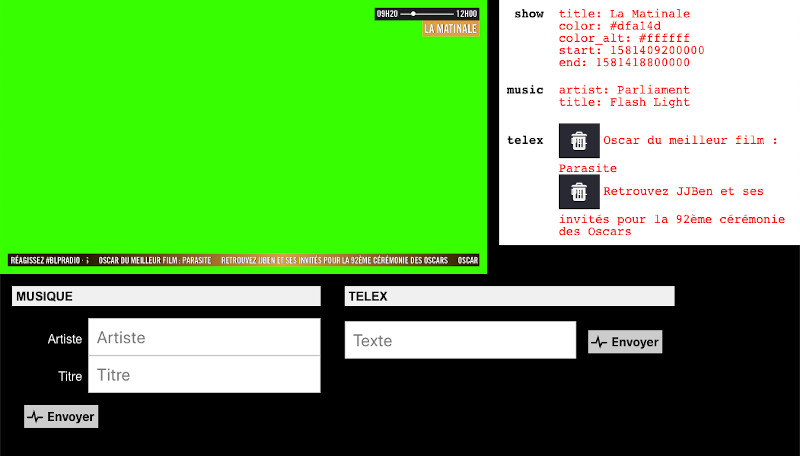
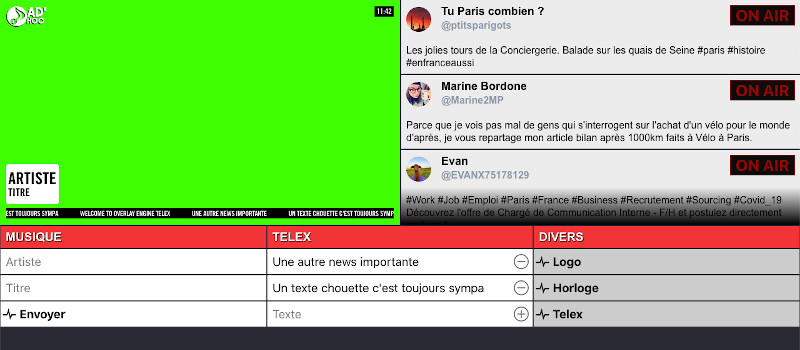
suite doc

diff --git a/app/watch-fb-comments.js b/app/watch-fb-comments.js
@@ -6,6 +6,9 @@
  * Todo créer une app FB sur https://developers.facebook.com/
  * et récupérer l'identifiant d'app + la clé secrète dans "Paramètres" / "Général"
  * L'app doit être "en ligne" (pas "en développement")
+ *
+ * Usage:
+ * npm start watch-fb-comments videoId
  */
 
 'use strict';
@@ -20,7 +23,6 @@ const settings = require('./lib/settings')
   , log = require('./lib/log');
 
 const AVATAR_PATH = __dirname + '/../public/img/avatars';
-const AVATAR_URL = `//${settings.server.HOST}:${settings.server.PORT}/img/avatars`;
 
 const socket = io(`ws://${settings.server.HOST}:${settings.server.PORT}`);
 
@@ -62,7 +64,6 @@ function startWatching(videoId, accessToken) {
   };
   es.onmessage = (event) => {
     let data = JSON.parse(event.data);
-    log(data);
     if (!data.message) {
       return;
     }
@@ -79,7 +80,7 @@ function startWatching(videoId, accessToken) {
     let AVATAR_FILE = `fb-${data.from.id}.jpg`;
     if (fs.existsSync(`${AVATAR_PATH}/${AVATAR_FILE}`)) {
       // avatar déjà en cache
-      social.avatar = `${AVATAR_URL}/${AVATAR_FILE}`;
+      social.avatar = `/img/avatars/${AVATAR_FILE}`;
       log('avatar deja en cache');
       pushSocial(social);
     } else {
@@ -90,7 +91,7 @@ function startWatching(videoId, accessToken) {
           fs.writeFileSync(`${AVATAR_PATH}/${AVATAR_FILE}`, body, 'binary');
           // mise en cache de l'avatar
           log('avatar récupéré ');
-          social.avatar = `${AVATAR_URL}/${AVATAR_FILE}`;
+          social.avatar = `/img/avatars/${AVATAR_FILE}`;
         }
         pushSocial(social);
       });
@@ -101,8 +102,7 @@ function startWatching(videoId, accessToken) {
 
 function pushSocial(social) {
   social.key = sha1(JSON.stringify(social));
-  log(social);
-  log('-');
   socket.emit('FBL_COM', social);
-  log('FBL_COM emitted');
+  log('FBL_COM emitted:');
+  log(social);
 }

diff --git a/app/watch-fb-reactions.js b/app/watch-fb-reactions.js
@@ -6,6 +6,9 @@
  * Todo créer une app FB sur https://developers.facebook.com/
  * et récupérer l'identifiant d'app + la clé secrète dans "Paramètres" / "Général"
  * L'app doit être "en ligne" (pas "en développement")
+ *
+ * Usage:
+ * npm start watch-fb-reactions videoId
  */
 
 'use strict';
@@ -69,8 +72,6 @@ function startWatching(videoId, accessToken) {
   };
   es.onmessage = (event) => {
     let data = JSON.parse(event.data);
-
-    log(data.reaction_stream);
     /*
     // on reçoit un tableau tableau de compteurs
     reaction_stream: [
@@ -84,22 +85,27 @@ function startWatching(videoId, accessToken) {
     */
 
     if (firstLoop) {
+      // 1ère boucle, on se contente de récupérer l'état des compteurs
       data.reaction_stream.forEach(item => {
         reactions[item.key] = item.value;
       });
+      log(reactions);
       firstLoop = false;
     } else {
+      // boucles suivantes, on calcule les deltas et on émet les événements nécessaires
       data.reaction_stream.forEach(item => {
         let diff = item.value - reactions[item.key];
         reactions[item.key] += diff;
         if (diff > 0) {
           for (let i = 0 ; i < diff ; i++) {
-            socket.emit('FBL_REA', {
+            let reaction = {
               type: item.key,
               network: 'facebook',
               timestamp: new Date()
-            });
-            log(`FBL_REA emitted (${item.key})`);
+            };
+            socket.emit('FBL_REA', reaction);
+            log('FBL_REA emitted:');
+            log(reaction);
           }
         }
       });

diff --git a/app/watch-tweets.js b/app/watch-tweets.js
@@ -2,6 +2,9 @@
 
 /**
  * envoi de l‘événement TWI à chaque nouveau tweet reçu
+ * 
+ * Usage:
+ * npm start watch-tweets "hashtag1,hashtag2,..." "language"
  */
 
 'use strict';
@@ -32,13 +35,26 @@ let client = new Twitter({
 const io = require('socket.io-client');
 const socket = io(`ws://${settings.server.HOST}:${settings.server.PORT}`);
 
+let track = '';
+if (process.argv[2]) {
+  track = process.argv[2];
+} else {
+  log('track manquant');
+  process.exit(1);
+}
+
+let language = 'fr';
+if (process.argv[3]) {
+  language = process.argv[3];
+}
+
 socket.on('connect_error', () => {
   log('connexion impossible, service overlay-engine-server bien lancé ?');
 });
 
 socket.on('connect', () => {
   log('connecté');
-  client.stream('statuses/filter', {track: settings.twitter.TRACK, language: settings.twitter.LANGUAGE}, (stream) => {
+  client.stream('statuses/filter', {track, language}, (stream) => {
 
     stream.on('data', (tweet) => {
       if (!tweet.id) return;
@@ -56,14 +72,12 @@ socket.on('connect', () => {
 
       social.key = sha1(JSON.stringify(social));
 
-      log(social);
-      log('-');
-
       // filtrage des urls
-      //social.text = social.text.replace(/(?:https?):\/\/[\n\S]+/g, '');
+      social.text = social.text.replace(/(?:https?):\/\/[\n\S]+/g, '');
 
       socket.emit('TWI', social);
-      log('TWI emitted');
+      log('TWI emitted:');
+      log(social);
 
     });
 

diff --git a/public/css/admin.css b/public/css/admin.css
@@ -32,7 +32,8 @@ header {
 section h2 {
   text-transform: uppercase;
   background: #f7303c;
-  padding: 5px;
+  padding: .5rem;
+  font-size: 1.2rem;
   color: #fff;
   font-weight: bold;
   text-shadow: 1px 1px #000;

diff --git a/README.md b/README.md
@@ -31,15 +31,12 @@ Ce projet a été créé à la base pour le compte d'une radio rock parisienne e
   * Prévisualisation live de l'habillage
   * Gestion (ajout/suppression) de messages telex
   * Gestion (ajout) du titre/artiste en mode manuel
+  * réception et modération des flux sociaux
+    * derniers tweets des critères (track+lang) sélectionnés
+    * derniers commentaires de la vidéo Facebook Live sélectionnée
+    * bouton ON AIR pour affichage sur l‘habillage
 
 ![Administration](/doc/admin.jpg)
-
-* Une webapp "social wall" : `/wall`
-  * derniers tweets des critères (track+lang) sélectionnés
-  * derniers commentaires de la vidéo Facebook Live sélectionnée
-  * bouton ON AIR pour affichage sur l‘habillage
-
-![Social Wall](/doc/wall.jpg)
 
 ## Installation
 
@@ -73,9 +70,7 @@ Le fichier de conf principal : `conf/settings.json`:
     "CONSUMER_KEY": "",
     "CONSUMER_SECRET": "",
     "ACCESS_TOKEN_KEY": "",
-    "ACCESS_TOKEN_SECRET": "",
-    "LANGUAGE": "fr",
-    "TRACK": ""
+    "ACCESS_TOKEN_SECRET": ""
   },
   "facebook": {
     "APP_ID": "",
@@ -86,7 +81,7 @@ Le fichier de conf principal : `conf/settings.json`:
 
 Les paramètres obligatoires sont `server.PORT` et `server.host` à renseigner.
 
-Les 3 webapps sont sur http://overlay-engine-host, http://overlay-engine-host/admin et http://overlay-engine-host/wall
+Les 3 webapps sont sur http://overlay-engine-host, http://overlay-engine-host/admin
 
 ### Récupération de l'émission courante (obligatoire)
 
@@ -128,6 +123,14 @@ systemctl start overlay-engine-watch-fb-comments@1234
 systemctl start overlay-engine-watch-fb-reactions@1234
 ```
 
+ou
+
+```bash
+cd /var/www/overlay-engine
+npm run watch-fb-comments 1234
+npm run watch-fb-reactions 1234
+```
+
 L'app `app/watch-fb-comments.js` prend 1 paramètre (1234), l'id de la vidéo facebook live
 L'app `app/watch-fb-reactions.js` prend 1 paramètre (1234), l'id de la vidéo facebook live
 
@@ -138,13 +141,22 @@ L'app `app/watch-fb-reactions.js` prend 1 paramètre (1234), l'id de la vidéo f
 Pour les messages sociaux twitter, vous devez avoir un compte sur cette plateforme, avoir créé une "app"
 et récupéré vos identifiants `CONSUMER_KEY`, `CONSUMER_SECRET`, `TOKEN_KEY` et `ACCESS_TOKEN_SECRET` et les saisir dans `settings.json`, section `twitter`.
 
-éditer dans `settings.json` la valeur de `settings.twitter.TRACKS` avec les hashtags et les comptes à suivre, séparés par des virgules. Ex: "@twitter,#twitter,#music" . On peut aussi filtrer la langue avec `settings.twitter.LANGUAGE` (`fr` par exemple).
+L'app prend en paramètres :
+* n°1 (obligatoire) `TRACKS` avec les hashtags et les comptes à suivre, séparés par des virgules. Ex: "@twitter,#twitter,#music"
+* n°2 (optionnel) `LANGUAGE`, filtrage par langue (défaut: `fr`).
 
 puis
 
 ```bash
-systemctl enable overlay-engine-watch-twitter
-systemctl start overlay-engine-watch-twitter
+systemctl enable overlay-engine-watch-tweets
+systemctl start overlay-engine-watch-tweets
+```
+
+ou
+
+```bash
+cd /var/www/overlay-engine
+npm run watch-tweets "@twitter,#twitter,#music" "fr"
 ```
 
 ## Type de messages websocket
@@ -154,7 +166,7 @@ systemctl start overlay-engine-watch-twitter
 
 Nom     | Expéditeur         | Destinataire | Description
 ------- | ------------------ | ------------ | -----------
-TWI     | watch-twitter      | server       | Message issu de la stream API twitter
+TWI     | watch-tweets       | server       | Message issu de la stream API twitter
 FBL_COM | watch-fb-comments  | server       | Commentaire issu d'un Facebook Live
 FBL_REA | watch-fb-reactions | server       | Réaction issu d'un Facebook Live
 SOC     | server             | wall         | Message social, format commun multi source
